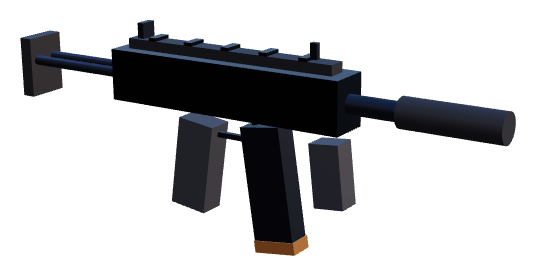
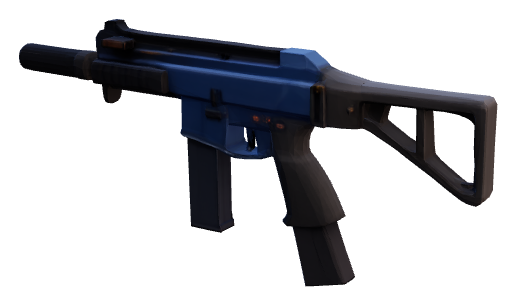
feat(art): real generated SMG + Sidearm models complete the weapon lineup
Generated a suppressed SMG and a service pistol via Higgsfield (nano_banana
reference -> SAM 3 3D lift, ~3 credits each) and baked them in. All five gun
tiers now read as real weapons in the shop and profile: Sidearm (pistol), SMG,
Assault Rifle, Marksman (DMR), Valor Prototype.

diff --git a/apps/web/src/app/dev/bake-items/page.tsx b/apps/web/src/app/dev/bake-items/page.tsx
@@ -23,9 +23,11 @@ const GUN_IDS: GunId[] = ['sidearm', 'smg', 'assault_rifle', 'marksman', 'legend
  * (Only two base models exist today; the rest still fall back to makeGunMesh.)
  */
 const GUN_GLB: Partial<Record<GunId, string>> = {
+  sidearm: '/models/guns/sidearm.glb',
+  smg: '/models/guns/smg.glb',
   assault_rifle: '/models/guns/rifle.glb',
-  legendary: '/models/guns/blaster.glb',
   marksman: '/models/guns/marksman.glb',
+  legendary: '/models/guns/blaster.glb',
 };
 
 /** Centre a posed holder on its bbox and return the hero-shot camera distance. */